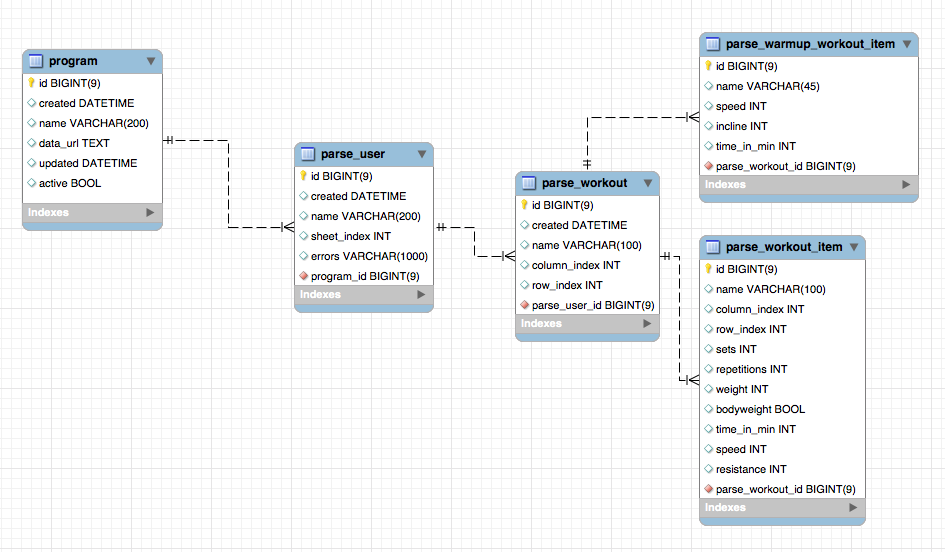
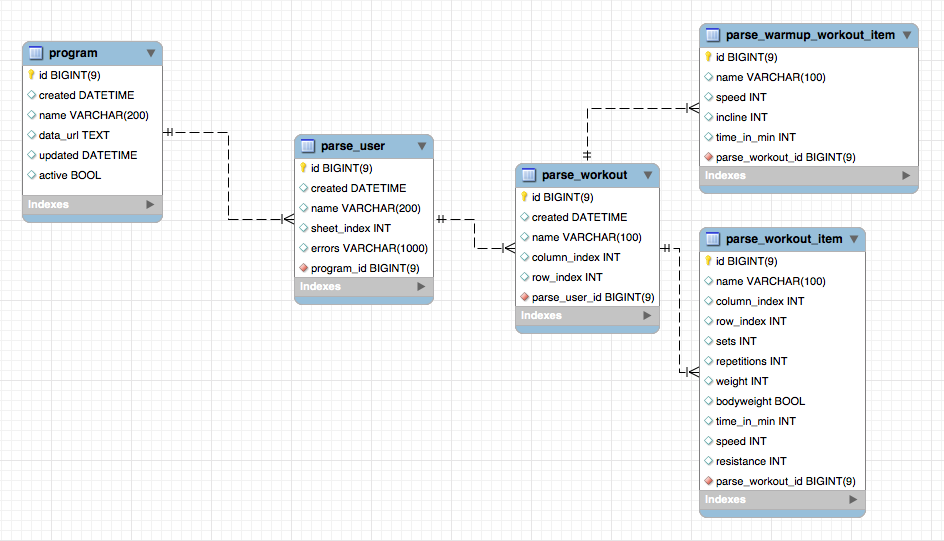
Add parse workout tables.

Changed region(s): [[0.215, 0.0, 1.0, 1.0], [0.0, 0.0591, 0.1843, 0.4436], [0.1536, 0.2366, 0.2458, 0.2662]]

diff --git a/src/main/java/com/github/pt/programs/ProgramService.java b/src/main/java/com/github/pt/programs/ProgramService.java
@@ -41,7 +41,7 @@ class ProgramService {
         inWarmupWorkoutItem111.setD_exercise_name("Treadmill 11");
         inWarmupWorkoutItem111.setIncline(4);
         inWarmupWorkoutItem111.setTime_in_min(10);
-        inWorkout11.setInWarmupWorkoutItem(Arrays.asList(inWarmupWorkoutItem111));
+        inWorkout11.setInWarmupWorkoutItems(Arrays.asList(inWarmupWorkoutItem111));
         InWorkoutItem inWorkoutItem111 = new InWorkoutItem();
         inWorkoutItem111.setId(1L);
         inWorkoutItem111.setD_exercise_id("20");
@@ -63,7 +63,7 @@ class ProgramService {
         inWarmupWorkoutItem121.setD_exercise_name("Treadmill 12");
         inWarmupWorkoutItem121.setIncline(4);
         inWarmupWorkoutItem121.setTime_in_min(10);
-        inWorkout12.setInWarmupWorkoutItem(Arrays.asList(inWarmupWorkoutItem121));
+        inWorkout12.setInWarmupWorkoutItems(Arrays.asList(inWarmupWorkoutItem121));
         InWorkoutItem inWorkoutItem121 = new InWorkoutItem();
         inWorkoutItem121.setId(3L);
         inWorkoutItem121.setD_exercise_id("40");
@@ -182,8 +182,8 @@ class ProgramService {
             workout.setName(inWorkout.getD_workout_name());
             workout.setItems(new ArrayList<>());
             program.getWorkouts().add(workout);
-            if (inWorkout.getInWarmupWorkoutItem() != null && !inWorkout.getInWarmupWorkoutItem().isEmpty()) {
-                InWarmupWorkoutItem inWarmupWorkoutItem = inWorkout.getInWarmupWorkoutItem().get(0);
+            if (inWorkout.getInWarmupWorkoutItems() != null && !inWorkout.getInWarmupWorkoutItems().isEmpty()) {
+                InWarmupWorkoutItem inWarmupWorkoutItem = inWorkout.getInWarmupWorkoutItems().get(0);
                 WarmupWorkoutItemResponseDTO warmupWorkoutItem = new WarmupWorkoutItemResponseDTO();
                 warmupWorkoutItem.setId(inWarmupWorkoutItem.getId());
                 warmupWorkoutItem.setExercise_id(Long.parseLong(inWarmupWorkoutItem.getD_exercise_id()));

diff --git a/src/main/java/com/github/pt/programs/ParseWarmupWorkoutItem.java b/src/main/java/com/github/pt/programs/ParseWarmupWorkoutItem.java
@@ -2,7 +2,6 @@ package com.github.pt.programs;
 
 import com.fasterxml.jackson.annotation.JsonBackReference;
 import java.time.LocalDateTime;
-import java.util.List;
 import lombok.AllArgsConstructor;
 import lombok.Getter;
 import lombok.NoArgsConstructor;
@@ -15,7 +14,6 @@ import javax.persistence.GenerationType;
 import javax.persistence.Id;
 import javax.persistence.JoinColumn;
 import javax.persistence.ManyToOne;
-import javax.persistence.OneToMany;
 import javax.persistence.SequenceGenerator;
 import javax.persistence.Table;
 import org.hibernate.annotations.DynamicInsert;
@@ -26,22 +24,21 @@ import org.hibernate.annotations.DynamicInsert;
 @Getter
 @Setter
 @Entity
-@Table (name = "in_workout", schema = "ptcore")
+@Table (name = "parse_warmup_workout_item", schema = "ptcore")
 @DynamicInsert
-public class InWorkout {
+public class ParseWarmupWorkoutItem {
     @Id
-    @SequenceGenerator(name = "InWorkoutIdSequence", sequenceName = "ptcore.in_workout_id_seq",
+    @SequenceGenerator(name = "ParseWarmupWorkoutItemIdSequence", sequenceName = "ptcore.parse_warmup_workout_item_id_seq",
             allocationSize = 1, initialValue = 1)
-    @GeneratedValue(strategy = GenerationType.SEQUENCE, generator = "InWorkoutIdSequence")
+    @GeneratedValue(strategy = GenerationType.SEQUENCE, generator = "ParseWarmupWorkoutItemIdSequence")
     Long id;
     LocalDateTime created;
-    String d_workout_name;
+    String name;
+    Integer speed;
+    Integer incline;
+    Integer time_in_min;
     @ManyToOne
-    @JoinColumn(name="in_program_id")
+    @JoinColumn(name="parse_workout_id")
     @JsonBackReference
-    InProgram inProgram;
-    @OneToMany(mappedBy="inWorkout")
-    List<InWarmupWorkoutItem> inWarmupWorkoutItems;
-    @OneToMany(mappedBy="inWorkout")
-    List<InWorkoutItem> inWorkoutItems;
+    ParseWorkout parseWorkout;
 }

diff --git a/src/main/java/com/github/pt/programs/ParseWorkoutItem.java b/src/main/java/com/github/pt/programs/ParseWorkoutItem.java
@@ -2,7 +2,6 @@ package com.github.pt.programs;
 
 import com.fasterxml.jackson.annotation.JsonBackReference;
 import java.time.LocalDateTime;
-import java.util.List;
 import lombok.AllArgsConstructor;
 import lombok.Getter;
 import lombok.NoArgsConstructor;
@@ -15,7 +14,6 @@ import javax.persistence.GenerationType;
 import javax.persistence.Id;
 import javax.persistence.JoinColumn;
 import javax.persistence.ManyToOne;
-import javax.persistence.OneToMany;
 import javax.persistence.SequenceGenerator;
 import javax.persistence.Table;
 import org.hibernate.annotations.DynamicInsert;
@@ -26,22 +24,21 @@ import org.hibernate.annotations.DynamicInsert;
 @Getter
 @Setter
 @Entity
-@Table (name = "in_workout", schema = "ptcore")
+@Table (name = "parse_workout_item", schema = "ptcore")
 @DynamicInsert
-public class InWorkout {
+public class ParseWorkoutItem {
     @Id
-    @SequenceGenerator(name = "InWorkoutIdSequence", sequenceName = "ptcore.in_workout_id_seq",
+    @SequenceGenerator(name = "ParseWorkoutItemIdSequence", sequenceName = "ptcore.parse_workout_item_id_seq",
             allocationSize = 1, initialValue = 1)
-    @GeneratedValue(strategy = GenerationType.SEQUENCE, generator = "InWorkoutIdSequence")
+    @GeneratedValue(strategy = GenerationType.SEQUENCE, generator = "ParseWorkoutItemIdSequence")
     Long id;
     LocalDateTime created;
-    String d_workout_name;
+    String name;
+    Integer speed;
+    Integer incline;
+    Integer time_in_min;
     @ManyToOne
-    @JoinColumn(name="in_program_id")
+    @JoinColumn(name="parse_workout_id")
     @JsonBackReference
-    InProgram inProgram;
-    @OneToMany(mappedBy="inWorkout")
-    List<InWarmupWorkoutItem> inWarmupWorkoutItems;
-    @OneToMany(mappedBy="inWorkout")
-    List<InWorkoutItem> inWorkoutItems;
+    ParseWorkout parseWorkout;
 }

diff --git a/src/main/java/com/github/pt/programs/ParseWorkout.java b/src/main/java/com/github/pt/programs/ParseWorkout.java
@@ -26,22 +26,24 @@ import org.hibernate.annotations.DynamicInsert;
 @Getter
 @Setter
 @Entity
-@Table (name = "in_workout", schema = "ptcore")
+@Table (name = "parse_workout", schema = "ptcore")
 @DynamicInsert
-public class InWorkout {
+public class ParseWorkout {
     @Id
-    @SequenceGenerator(name = "InWorkoutIdSequence", sequenceName = "ptcore.in_workout_id_seq",
+    @SequenceGenerator(name = "ParseWorkoutIdSequence", sequenceName = "ptcore.parse_workout_id_seq",
             allocationSize = 1, initialValue = 1)
-    @GeneratedValue(strategy = GenerationType.SEQUENCE, generator = "InWorkoutIdSequence")
+    @GeneratedValue(strategy = GenerationType.SEQUENCE, generator = "ParseWorkoutIdSequence")
     Long id;
     LocalDateTime created;
-    String d_workout_name;
+    String name;
+    Integer column_index;
+    Integer row_index;
     @ManyToOne
-    @JoinColumn(name="in_program_id")
+    @JoinColumn(name="parse_user_id")
     @JsonBackReference
-    InProgram inProgram;
-    @OneToMany(mappedBy="inWorkout")
-    List<InWarmupWorkoutItem> inWarmupWorkoutItems;
-    @OneToMany(mappedBy="inWorkout")
-    List<InWorkoutItem> inWorkoutItems;
+    ParseUser parseUser;
+    @OneToMany(mappedBy="parseWorkout")
+    List<ParseWarmupWorkoutItem> parseWarmupWorkoutItems;
+    @OneToMany(mappedBy="parseWorkout")
+    List<ParseWorkoutItem> parseWorkoutItems;
 }

diff --git a/src/main/java/com/github/pt/programs/ParseUser.java b/src/main/java/com/github/pt/programs/ParseUser.java
@@ -2,6 +2,7 @@ package com.github.pt.programs;
 
 import com.fasterxml.jackson.annotation.JsonBackReference;
 import java.time.LocalDateTime;
+import java.util.List;
 import lombok.AllArgsConstructor;
 import lombok.Getter;
 import lombok.NoArgsConstructor;
@@ -14,6 +15,7 @@ import javax.persistence.GenerationType;
 import javax.persistence.Id;
 import javax.persistence.JoinColumn;
 import javax.persistence.ManyToOne;
+import javax.persistence.OneToMany;
 import javax.persistence.SequenceGenerator;
 import javax.persistence.Table;
 import org.hibernate.annotations.DynamicInsert;
@@ -40,4 +42,6 @@ public class ParseUser {
     @JoinColumn(name="program_id")
     @JsonBackReference
     Program program;
+    @OneToMany(mappedBy="parseUser")
+    List<ParseWorkout> parseWorkouts;
 }
